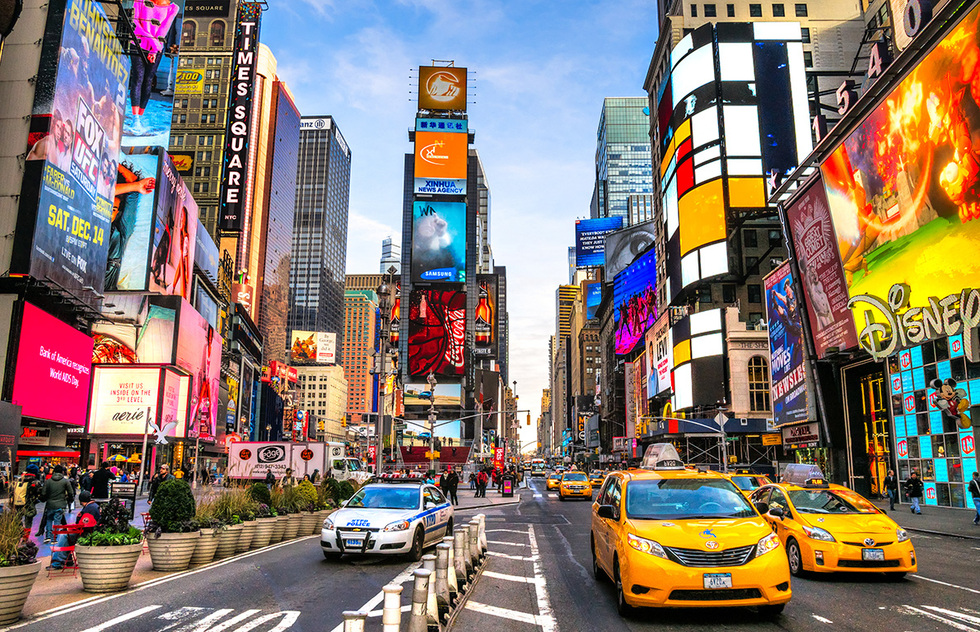
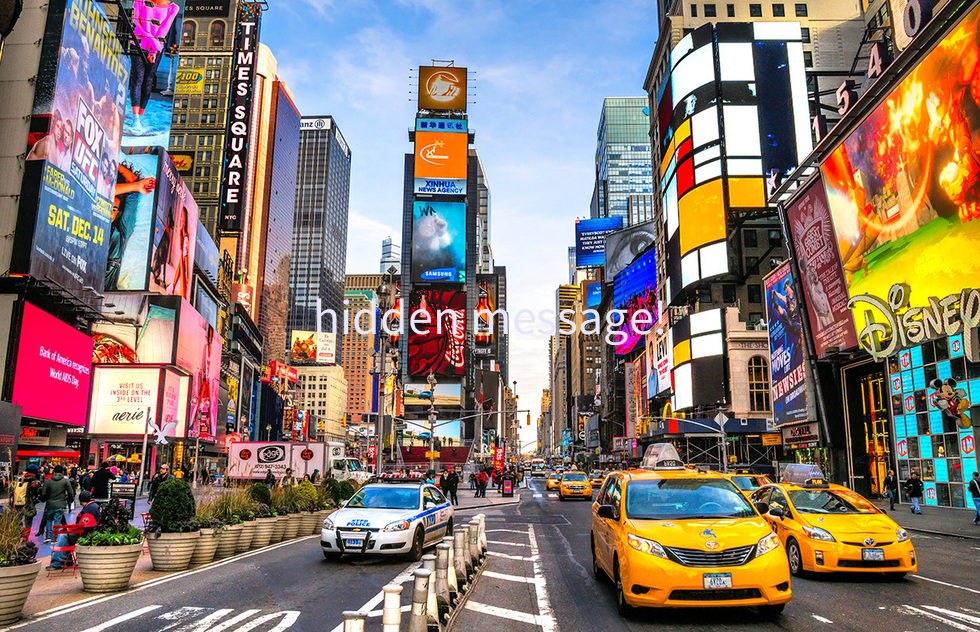
made processing display more comprehensive

Changed region(s): [[0.3061, 0.481, 0.5204, 0.5411], [0.551, 0.481, 0.6735, 0.5411]]

diff --git a/WORKLOG.md b/WORKLOG.md
@@ -40,7 +40,7 @@ HW: started working on regular image encode, got encryption working with a pic o
 ### 2024-06-03
 CW: got regular image encode working but tints the modified image a bit, need to fix so looks identical to original
 
-HW:
+HW: fixed message hiding, worked on processing image displays, tested more color messages
 
 ## GROUP MEMBER 2: Timothy Young
 
